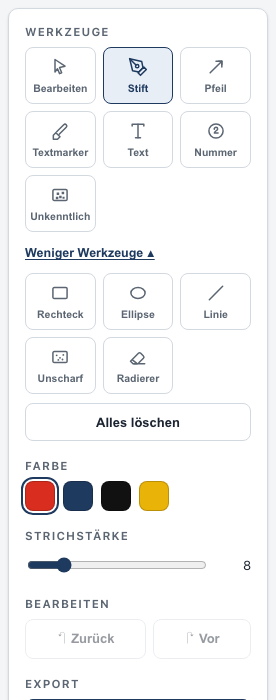
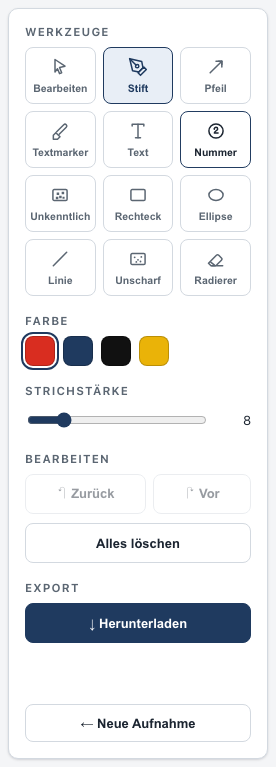
Werkzeugleiste nur Werkzeuge (Aktionszeile ueber Canvas); Responsive 390-2560: max-width 1500 zentriert, <=900px horizontale Touch-Toolbar (>=44px), mobiler Header-Header-Fix; Aufklapper entfernt, alle 12 Werkzeuge sichtbar

diff --git a/public/index.html b/public/index.html
@@ -93,55 +93,33 @@
       <!-- ================= Editor ================= -->
       <section id="editorSection" class="hidden">
         <div class="editor-layout">
-          <aside class="toolbar" aria-label="Werkzeuge">
-            <div class="tgroup">
-              <span class="label">Werkzeuge</span>
-              <div class="tool-grid" id="toolGrid"></div>
-              <button class="more-toggle" id="moreToggle" type="button" aria-expanded="false">Mehr Werkzeuge ▾</button>
-              <div class="tool-grid hidden" id="toolGridMore"></div>
-              <button class="btn small hidden" id="clearBtn" type="button">Alles löschen</button>
-            </div>
-            <div class="tgroup">
-              <span class="label">Farbe</span>
+          <aside class="toolbar">
+            <div class="tool-grid" id="toolGrid"></div>
+            <div class="style-row">
               <div class="swatches" id="swatches"></div>
-            </div>
-            <div class="tgroup">
-              <span class="label">Strichstärke</span>
               <div class="slider-row">
                 <input type="range" id="strokeSlider" min="1" max="40" value="8">
                 <span class="val" id="strokeVal">8</span>
               </div>
-            </div>
-            <div class="tgroup hidden" id="fontRow">
-              <span class="label">Schriftgröße</span>
-              <div class="slider-row">
+              <div class="slider-row hidden" id="fontRow">
                 <input type="range" id="fontSlider" min="10" max="140" value="34">
                 <span class="val" id="fontVal">34</span>
               </div>
             </div>
-            <div class="tgroup">
-              <span class="label">Bearbeiten</span>
-              <div class="row-btns">
-                <button class="btn small" id="undoBtn" type="button">↶ Zurück</button>
-                <button class="btn small" id="redoBtn" type="button">↷ Vor</button>
-                <button class="btn small hidden" id="deleteShapeBtn" type="button">Auswahl löschen</button>
-              </div>
-            </div>
-
-            <div class="tgroup">
-              <span class="label">Export</span>
-              <div class="row-btns">
-                <button class="btn primary" id="downloadBtn" type="button">↓ Herunterladen</button>
-              </div>
-              <span class="status ok" id="downloadNote" style="font-size:12px"></span>
-            </div>
-
-            <div class="tgroup">
-              <button class="btn ghost small" id="backBtn" type="button">← Neue Aufnahme</button>
+            <div class="row-btns">
+              <button class="btn small" id="undoBtn" type="button">↶ Zurück</button>
+              <button class="btn small" id="redoBtn" type="button">↷ Vor</button>
+              <button class="btn small" id="clearBtn" type="button">Alles löschen</button>
+              <button class="btn small hidden" id="deleteShapeBtn" type="button">Auswahl löschen</button>
             </div>
           </aside>
 
           <div class="stage">
+            <div class="stage-actions">
+              <button class="btn ghost small" id="backBtn" type="button">← Neue Aufnahme</button>
+              <span class="status ok" id="downloadNote" style="margin:0"></span>
+              <button class="btn primary small" id="downloadBtn" type="button">↓ Herunterladen</button>
+            </div>
             <div class="canvas-holder">
               <canvas id="editorCanvas" width="1280" height="800"></canvas>
             </div>

diff --git a/public/css/style.css b/public/css/style.css
@@ -67,7 +67,7 @@ textarea:focus-visible, [tabindex]:focus-visible {
   outline-offset: 2px;
 }
 
-.wrap { max-width: 1280px; margin: 0 auto; padding: 0 24px 56px; }
+.wrap { max-width: 1500px; margin: 0 auto; padding: 0 24px 56px; }
 
 /* ---------- Header ---------- */
 header.site {
@@ -260,23 +260,45 @@ header.site {
 .editor-layout { display: grid; grid-template-columns: 260px minmax(0, 1fr); gap: 16px; align-items: start; }
 @media (max-width: 900px) {
   .editor-layout { grid-template-columns: 1fr; }
-  .toolbar { position: static; }
+  .toolbar {
+    position: static;
+    flex-direction: row;
+    flex-wrap: wrap;
+    align-items: center;
+    gap: 10px;
+  }
+  .tool-grid {
+    flex: 1 1 100%;
+    display: flex;
+    flex-wrap: wrap;
+    gap: 6px;
+  }
+  .tool { flex: 0 0 auto; min-width: 76px; min-height: 48px; }
+  .style-row { flex: 1 1 auto; }
+  .row-btns { flex: 1 1 100%; }
+  .row-btns .btn, .stage-actions .btn { min-height: 44px; }
 }
 
 .toolbar {
   background: var(--panel);
   border: 1px solid var(--line);
   border-radius: var(--radius);
-  padding: 16px;
+  padding: 12px;
   display: flex;
   flex-direction: column;
-  gap: 18px;
+  gap: 12px;
   box-shadow: var(--shadow);
 }
 @media (min-width: 901px) { .toolbar { position: sticky; top: 14px; } }
 
-.tgroup { display: flex; flex-direction: column; gap: 9px; }
-.tgroup .label { font-size: 11.5px; letter-spacing: 0.1em; text-transform: uppercase; color: var(--muted); font-weight: 650; }
+/* Farben + Strichstärke in einer schlanken Zeile */
+.style-row { display: flex; align-items: center; gap: 14px; flex-wrap: wrap; }
+.style-row .slider-row { flex: 1 1 150px; min-width: 150px; }
+
+/* Aktionszeile über dem Canvas */
+.stage-actions { display: flex; align-items: center; gap: 10px; flex-wrap: wrap; margin-bottom: 12px; }
+.stage-actions #downloadBtn { margin-left: auto; }
+.stage-actions .status { margin: 0; }
 .tool-grid { display: grid; grid-template-columns: repeat(3, minmax(0, 1fr)); gap: 7px; }
 .tool {
   appearance: none;
@@ -481,23 +503,14 @@ footer.site a:hover { color: var(--accent); }
 .logo svg.logo-mark { color: var(--accent); }
 :root { --logo-dot: #8fb0d4; }
 
-/* ---------- Mehr Werkzeuge ---------- */
-.more-toggle {
-  appearance: none;
-  background: none;
-  border: none;
-  color: var(--muted);
-  font-size: 12.5px;
-  font-weight: 600;
-  cursor: pointer;
-  padding: 4px 0;
-  text-align: left;
-  text-decoration: underline;
-  text-underline-offset: 2px;
-}
-.more-toggle:hover { color: var(--accent); }
-
 /* ---------- KI-Hilfe: dezente Sekundärgruppe ---------- */
 .btn.ai { border-color: var(--line); color: var(--text); background: var(--panel); font-weight: 500; }
 .btn.ai:hover { border-color: var(--accent); }
 .ai-hint { font-size: 12px; color: var(--muted); margin: 2px 0 0; line-height: 1.5; }
+
+/* ---------- Schmale Screens: Header ordentlich umbrechen ---------- */
+@media (max-width: 700px) {
+  header.site { flex-wrap: wrap; gap: 10px; }
+  .brand .tag { display: none; }
+  .header-right { margin-left: 0; width: 100%; justify-content: flex-start; }
+}

diff --git a/public/js/app.js b/public/js/app.js
@@ -265,8 +265,8 @@
     text: 'Text', highlight: 'Textmarker', number: 'Nummer', blur: 'Unscharf', pixel: 'Unkenntlich', eraser: 'Radierer',
     select: 'Bearbeiten',
   };
-  const CORE_TOOLS = ['select', 'pen', 'arrow', 'highlight', 'text', 'number', 'pixel'];
-  const MORE_TOOLS = ['rect', 'ellipse', 'line', 'blur', 'eraser'];
+  // Reihenfolge: Zeile 1 = Bearbeiten/Stift/Pfeil/Textmarker/Text/Nummer, Zeile 2 = Unkenntlich/Rechteck/Ellipse/Linie/Unscharf/Radierer
+  const ALL_TOOLS = ['select', 'pen', 'arrow', 'highlight', 'text', 'number', 'pixel', 'rect', 'ellipse', 'line', 'blur', 'eraser'];
 
   function makeToolButton(t) {
     const b = document.createElement('button');
@@ -277,7 +277,7 @@
     b.title = TOOL_LABELS[t] || t;
     b.addEventListener('click', () => {
       editor.tool = t;
-      $$('#toolGrid .tool, #toolGridMore .tool').forEach((x) => x.classList.toggle('active', x === b));
+      $$('#toolGrid .tool').forEach((x) => x.classList.toggle('active', x === b));
       $('#fontRow').classList.toggle('hidden', t !== 'text');
       $('#editorCanvas').style.cursor = t === 'text' ? 'text' : t === 'eraser' ? 'not-allowed' : 'crosshair';
     });
@@ -286,17 +286,7 @@
 
   function buildToolGrid() {
     const grid = $('#toolGrid');
-    const more = $('#toolGridMore');
-    CORE_TOOLS.forEach((t) => grid.appendChild(makeToolButton(t)));
-    MORE_TOOLS.forEach((t) => more.appendChild(makeToolButton(t)));
-    const toggle = $('#moreToggle');
-    toggle.addEventListener('click', () => {
-      const open = !more.classList.contains('hidden');
-      more.classList.toggle('hidden', open);
-      $('#clearBtn').classList.toggle('hidden', open);
-      toggle.setAttribute('aria-expanded', String(!open));
-      toggle.textContent = open ? 'Mehr Werkzeuge ▾' : 'Weniger Werkzeuge ▴';
-    });
+    ALL_TOOLS.forEach((t) => grid.appendChild(makeToolButton(t)));
   }
 
   const COLORS = ['#d92d20', '#1f3a5f', '#111111', '#eab308']; // Rot, Blau, Schwarz, Gelb (Textmarker)

diff --git a/tests/klick-durchlauf.js b/tests/klick-durchlauf.js
@@ -46,7 +46,6 @@ function check(name, ok, detail) {
   for (let i = 0; i <= 20; i++) await page.mouse.move(box.x + box.width * 0.2 + i * (box.width * 0.6 / 20), box.y + box.height * 0.3 + Math.sin(i / 3) * 25);
   await page.mouse.up();
 
-  await page.click('#moreToggle');
   await page.click('.tool[data-tool="rect"]');
   box = await canvasBox();
   await page.mouse.move(box.x + box.width * 0.3, box.y + box.height * 0.35);
